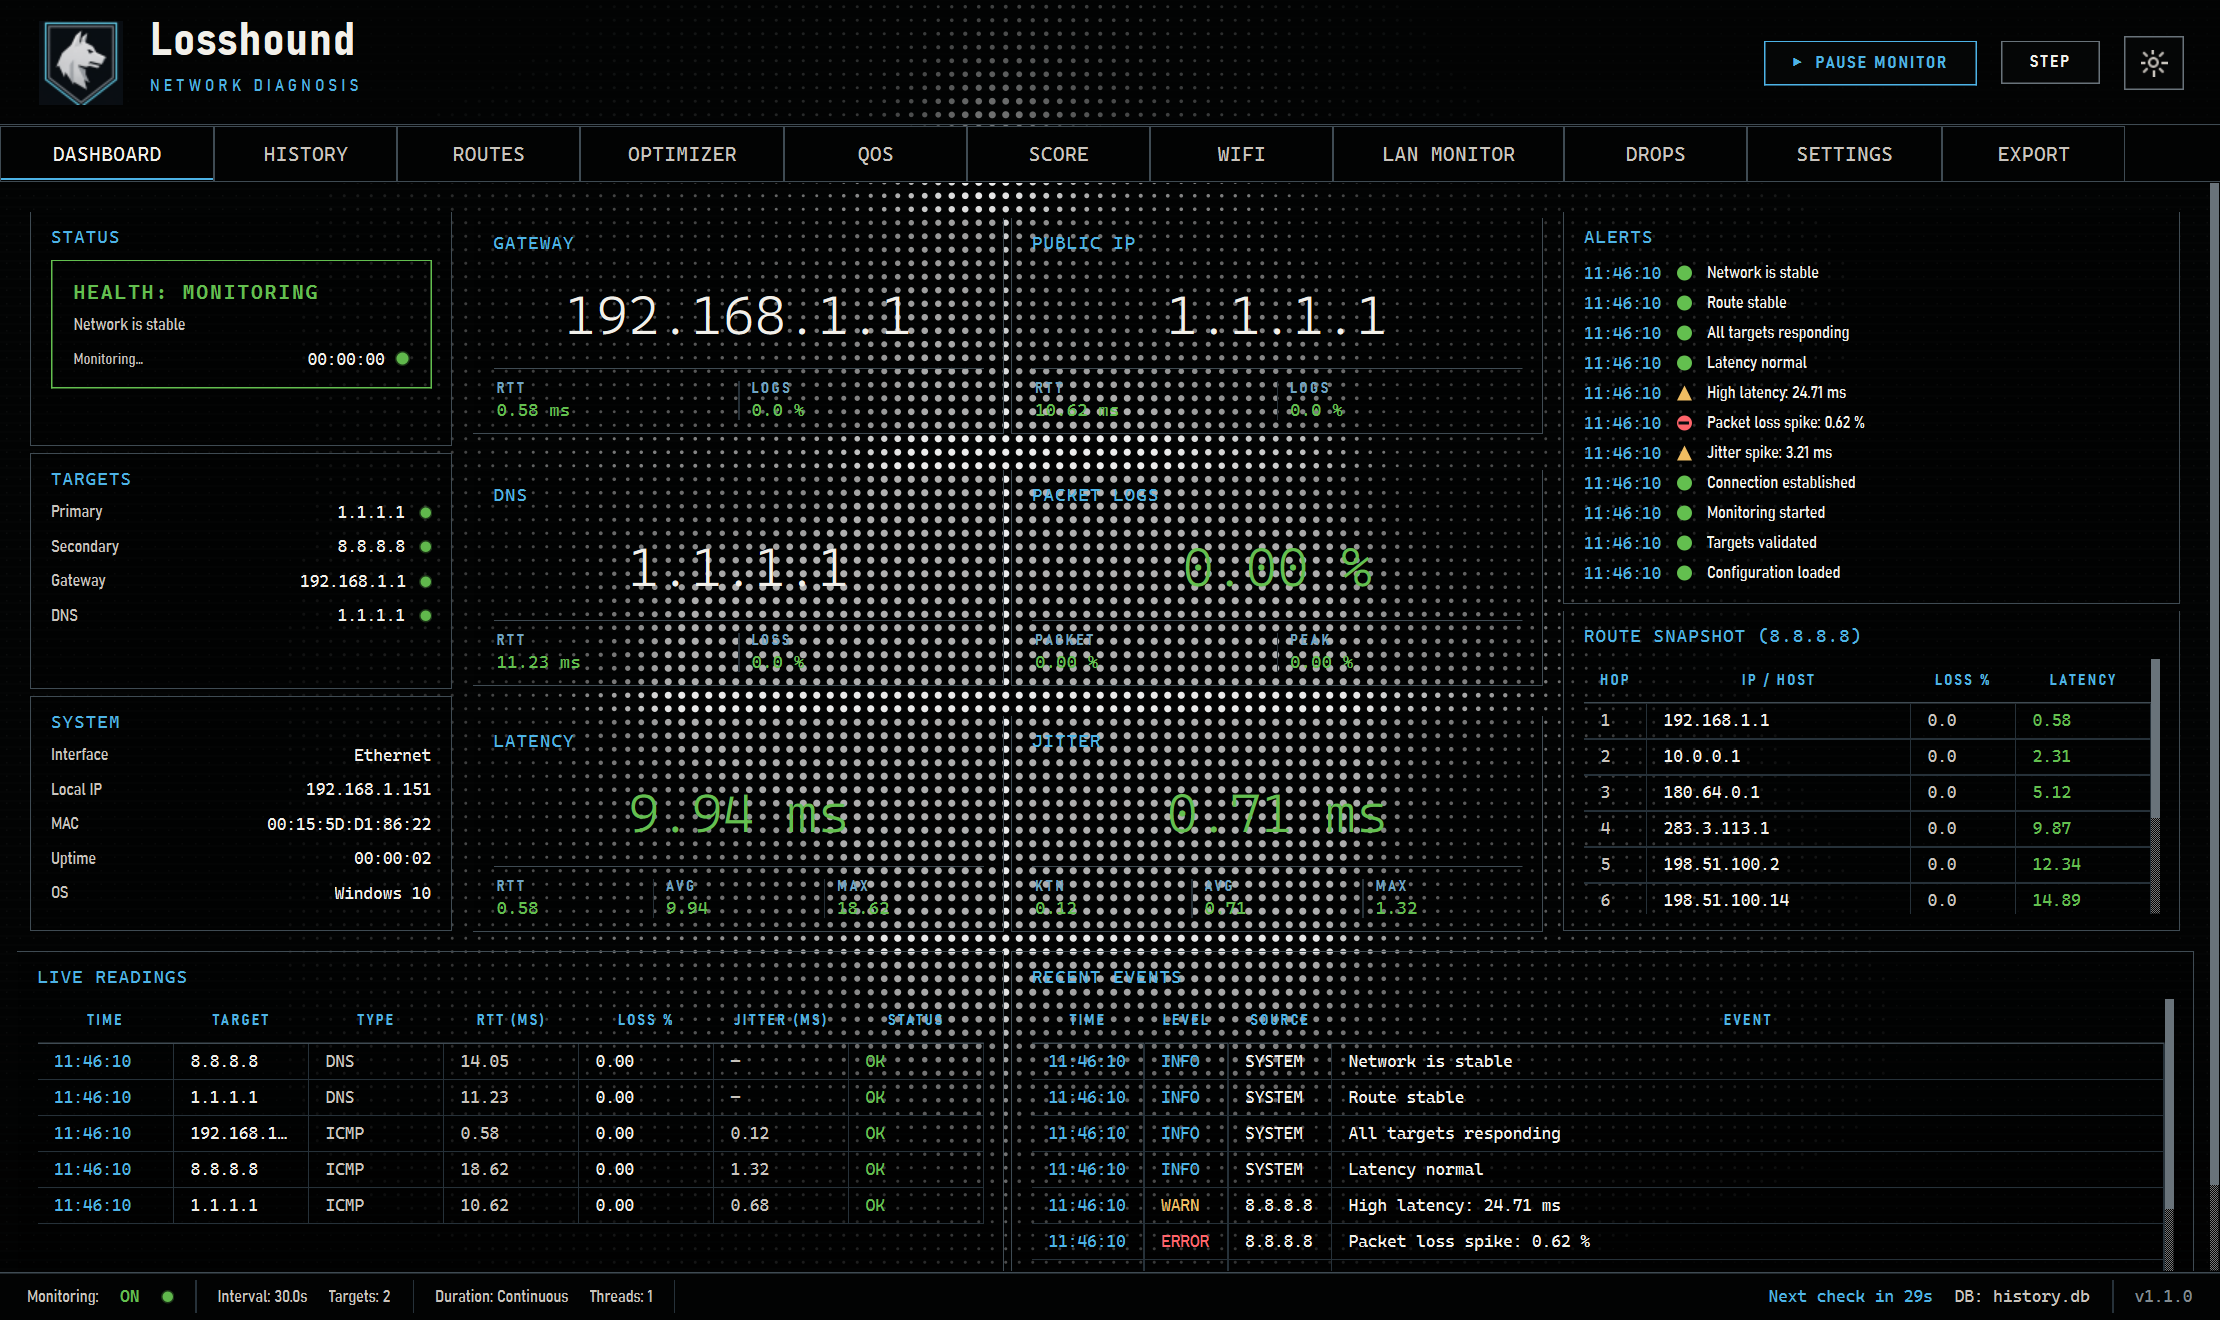
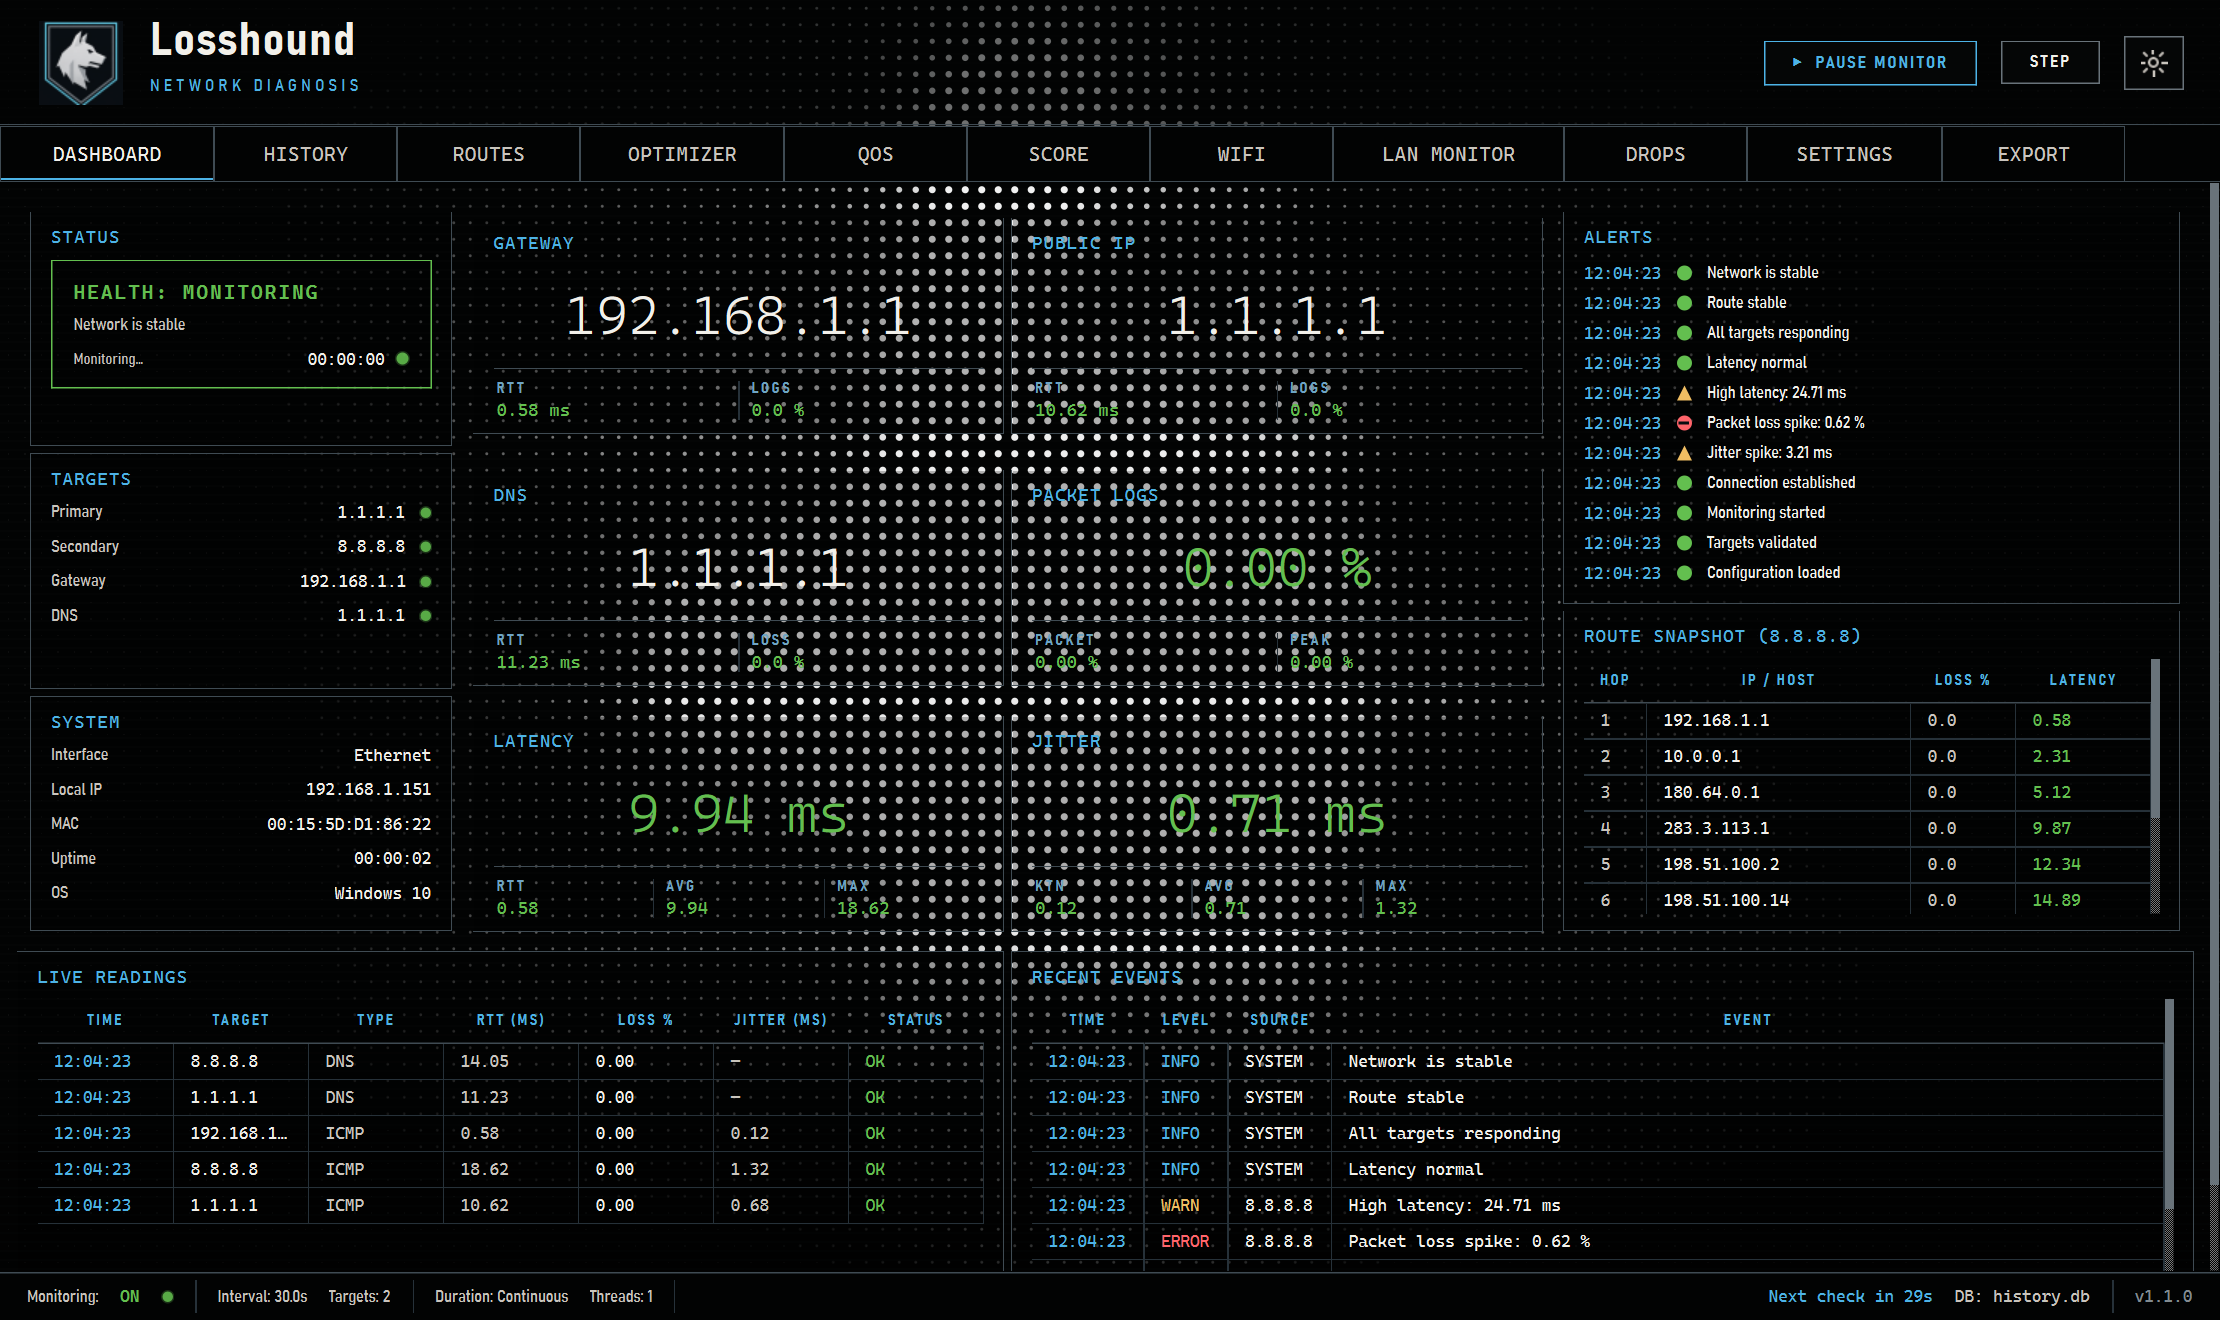
Optimize unified halftone backdrop performance and add organic mouse hover decay

diff --git a/src/losshound/gui/painted.py b/src/losshound/gui/painted.py
@@ -75,11 +75,24 @@ class TexturedSurface(QWidget):
         self.setMouseTracking(True)
 
         self._start_time = time.time()
-        self._mouse_x = 0
-        self._mouse_y = 0
-        self._mouse_target_x = 0
-        self._mouse_target_y = 0
+        self._mouse_x = 0.0
+        self._mouse_y = 0.0
+        self._mouse_target_x = 0.0
+        self._mouse_target_y = 0.0
         self._mouse_hover = False
+        self._mouse_glow_factor = 0.0
+        self._mouse_last_move_time = time.time()
+        self._last_mouse_x = 0.0
+        self._last_mouse_y = 0.0
+
+        # Optimization & caching fields
+        self._base_grid_pixmap = None
+        self._X = None
+        self._Y = None
+        self._DX = None
+        self._DY = None
+        self._D = None
+        self._has_numpy = False
 
         # 30 FPS update timer
         self._timer = QTimer(self)
@@ -87,12 +100,74 @@ class TexturedSurface(QWidget):
         self._timer.timeout.connect(self.update_animation)
         self._timer.start()
 
+    def resizeEvent(self, event) -> None:
+        super().resizeEvent(event)
+        self._recreate_grid()
+
+    def _recreate_grid(self) -> None:
+        rect = self.rect()
+        w = rect.width()
+        h = rect.height()
+        if w < 10 or h < 10:
+            self._base_grid_pixmap = None
+            self._X = None
+            self._Y = None
+            self._DX = None
+            self._DY = None
+            self._D = None
+            return
+
+        # Halftone grid parameters
+        cell = 11  # Coarser spacing (from 9) for tactile aesthetic and lower draw count
+
+        try:
+            import numpy as np
+            xs = np.arange(cell / 2.0, w, cell)
+            ys = np.arange(cell / 2.0, h, cell)
+            self._X, self._Y = np.meshgrid(xs, ys)
+
+            centerX = w / 2.0
+            centerY = h / 2.0
+            self._DX = self._X - centerX
+            self._DY = self._Y - centerY
+            self._D = np.sqrt(self._DX*self._DX + self._DY*self._DY)
+            self._has_numpy = True
+        except Exception:
+            self._has_numpy = False
+            self._X = None
+            self._Y = None
+
+        # Pre-render static base dot grid to a QPixmap
+        self._base_grid_pixmap = QPixmap(w, h)
+        self._base_grid_pixmap.fill(Qt.GlobalColor.transparent)
+
+        painter = QPainter(self._base_grid_pixmap)
+        painter.setRenderHint(QPainter.RenderHint.Antialiasing, False)
+        painter.setPen(Qt.PenStyle.NoPen)
+        # 228, 234, 244, 12 is the exact transparent base color used in the design
+        painter.setBrush(QColor(228, 234, 244, 12))
+
+        if self._has_numpy:
+            flat_x = self._X.ravel()
+            flat_y = self._Y.ravel()
+            for idx in range(len(flat_x)):
+                px = flat_x[idx]
+                py = flat_y[idx]
+                painter.drawRect(QRectF(px - 0.5, py - 0.5, 1.0, 1.0))
+        else:
+            fallback_cell = 14
+            for px in range(int(fallback_cell / 2), w, fallback_cell):
+                for py in range(int(fallback_cell / 2), h, fallback_cell):
+                    painter.drawRect(QRectF(px - 0.5, py - 0.5, 1.0, 1.0))
+
+        painter.end()
+
     def update_animation(self) -> None:
         # Resolve cursor position relative to this widget, ignoring child intercepts
         local_pos = self.mapFromGlobal(QCursor.pos())
         w = self.width()
         h = self.height()
-        
+
         if self.rect().contains(local_pos):
             self._mouse_hover = True
             self._mouse_x = local_pos.x()
@@ -100,15 +175,42 @@ class TexturedSurface(QWidget):
         else:
             self._mouse_hover = False
 
-        # Soft mouse interpolation
+        # Check if mouse moved
+        moved = False
+        if self._mouse_hover:
+            dx = self._mouse_x - self._last_mouse_x
+            dy = self._mouse_y - self._last_mouse_y
+            if math.sqrt(dx*dx + dy*dy) > 0.5:
+                moved = True
+            self._last_mouse_x = self._mouse_x
+            self._last_mouse_y = self._mouse_y
+
+        if moved:
+            self._mouse_last_move_time = time.time()
+
+        # Soft mouse interpolation and glow calculations
         if self._mouse_hover:
             self._mouse_target_x += (self._mouse_x - self._mouse_target_x) * 0.15
             self._mouse_target_y += (self._mouse_y - self._mouse_target_y) * 0.15
+
+            # Calculate target glow based on movement recency
+            time_since_move = time.time() - self._mouse_last_move_time
+            if time_since_move < 1.0:
+                target_glow = 1.0
+            else:
+                # Decay to a low idle glow (e.g., 0.15) over 1.5 seconds
+                target_glow = max(0.15, 1.0 - (time_since_move - 1.0) / 1.5)
+
+            # Ease towards target glow
+            self._mouse_glow_factor += (target_glow - self._mouse_glow_factor) * 0.1
         else:
             # Gentle floating idle movement
             t = (time.time() - self._start_time) * 0.8
             self._mouse_target_x = w / 2.0 + math.cos(t * 0.8) * (w / 3.0)
             self._mouse_target_y = h / 2.0 + math.sin(t * 0.5) * (h / 4.0)
+
+            # Fade out mouse glow when not hovering
+            self._mouse_glow_factor += (0.0 - self._mouse_glow_factor) * 0.08
 
         self.update()
 
@@ -123,112 +225,101 @@ class TexturedSurface(QWidget):
         if w < 10 or h < 10:
             return
 
+        # 1. Draw the pre-rendered static background grid pixmap
+        if self._base_grid_pixmap and not self._base_grid_pixmap.isNull():
+            painter.drawPixmap(0, 0, self._base_grid_pixmap)
+
         max_dim = max(w, h)
         centerX = w / 2.0
         centerY = h / 2.0
         t_val = (time.time() - self._start_time) * 0.8
 
-        # Halftone grid parameters
-        cell = 9
         dot_size = 2.4
 
-        try:
-            import numpy as np
-            # Vectorized coordinate computation for maximum performance
-            xs = np.arange(cell / 2.0, w, cell)
-            ys = np.arange(cell / 2.0, h, cell)
-            X, Y = np.meshgrid(xs, ys)
+        if self._has_numpy and self._X is not None:
+            try:
+                import numpy as np
 
-            DX = X - centerX
-            DY = Y - centerY
-            D = np.sqrt(DX*DX + DY*DY)
+                # Central nucleus glow
+                nucleus_radius = max_dim * 0.08
+                N_GLOW = np.exp(-self._D / nucleus_radius) * 0.95
 
-            # Central nucleus glow
-            nucleus_radius = max_dim * 0.08
-            N_GLOW = np.exp(-D / nucleus_radius) * 0.95
+                # Orbital loops (3 distinct angled ellipses)
+                ORBIT_PROXIMITY = np.zeros_like(self._D)
+                ELECTRON_PROXIMITY = np.zeros_like(self._D)
 
-            # Orbital loops (3 distinct angled ellipses)
-            ORBIT_PROXIMITY = np.zeros_like(D)
-            ELECTRON_PROXIMITY = np.zeros_like(D)
+                majorAxis = max_dim * 0.28
+                minorAxis = max_dim * 0.095
 
-            majorAxis = max_dim * 0.28
-            minorAxis = max_dim * 0.095
+                orbits = [
+                    {"angle": math.pi / 6.0, "speedMult": 1.2, "index": 0},
+                    {"angle": -math.pi / 6.0, "speedMult": 0.95, "index": 1},
+                    {"angle": math.pi / 2.0, "speedMult": 1.5, "index": 2}
+                ]
 
-            orbits = [
-                {"angle": math.pi / 6.0, "speedMult": 1.2, "index": 0},
-                {"angle": -math.pi / 6.0, "speedMult": 0.95, "index": 1},
-                {"angle": math.pi / 2.0, "speedMult": 1.5, "index": 2}
-            ]
+                for orbit in orbits:
+                    cosA = math.cos(orbit["angle"])
+                    sinA = math.sin(orbit["angle"])
 
-            for orbit in orbits:
-                cosA = math.cos(orbit["angle"])
-                sinA = math.sin(orbit["angle"])
+                    RX = self._DX * cosA + self._DY * sinA
+                    RY = -self._DX * sinA + self._DY * cosA
 
-                RX = DX * cosA + DY * sinA
-                RY = -DX * sinA + DY * cosA
+                    radialFactor = np.sqrt((RX/majorAxis)**2 + (RY/minorAxis)**2)
+                    proximity = np.exp(-((radialFactor - 1.0)**2) / (0.12 + math.sin(t_val + orbit["index"]) * 0.04))
 
-                radialFactor = np.sqrt((RX/majorAxis)**2 + (RY/minorAxis)**2)
-                proximity = np.exp(-((radialFactor - 1.0)**2) / (0.12 + math.sin(t_val + orbit["index"]) * 0.04))
+                    # Electron trace
+                    orbitTime = t_val * orbit["speedMult"]
+                    eX = math.cos(orbitTime) * majorAxis
+                    eY = math.sin(orbitTime) * minorAxis
 
-                # Electron trace
-                orbitTime = t_val * orbit["speedMult"]
-                eX = math.cos(orbitTime) * majorAxis
-                eY = math.sin(orbitTime) * minorAxis
+                    electronPx = eX * cosA - eY * sinA + centerX
+                    electronPy = eX * sinA + eY * cosA + centerY
 
-                electronPx = eX * cosA - eY * sinA + centerX
-                electronPy = eX * sinA + eY * cosA + centerY
+                    EDx = self._X - electronPx
+                    EDy = self._Y - electronPy
+                    distToElectron = np.sqrt(EDx*EDx + EDy*EDy)
+                    electronHalo = np.exp(-distToElectron / (max_dim * 0.075)) * 0.7
 
-                EDx = X - electronPx
-                EDy = Y - electronPy
-                distToElectron = np.sqrt(EDx*EDx + EDy*EDy)
-                electronHalo = np.exp(-distToElectron / (max_dim * 0.075)) * 0.7
+                    ORBIT_PROXIMITY += proximity * 0.15
+                    ELECTRON_PROXIMITY += electronHalo
 
-                ORBIT_PROXIMITY += proximity * 0.15
-                ELECTRON_PROXIMITY += electronHalo
+                # Mouse gravity trail
+                mDx = self._X - self._mouse_target_x
+                mDy = self._Y - self._mouse_target_y
+                distToMouse = np.sqrt(mDx*mDx + mDy*mDy)
+                mouseGlow = np.exp(-distToMouse / (max_dim * 0.18)) * (0.28 * self._mouse_glow_factor)
 
-            # Mouse gravity trail
-            mDx = X - self._mouse_target_x
-            mDy = Y - self._mouse_target_y
-            distToMouse = np.sqrt(mDx*mDx + mDy*mDy)
-            mouseGlow = np.exp(-distToMouse / (max_dim * 0.18)) * 0.28
+                # Calculate individual contributions to guide colors
+                blue_weight = N_GLOW * 1.1 + ORBIT_PROXIMITY
+                green_weight = ELECTRON_PROXIMITY
+                mouse_weight = mouseGlow
 
-            # Calculate individual contributions to guide colors
-            blue_weight = N_GLOW * 1.1 + ORBIT_PROXIMITY
-            green_weight = ELECTRON_PROXIMITY
-            mouse_weight = mouseGlow
+                STRENGTH = blue_weight + green_weight + mouse_weight
+                STRENGTH = (STRENGTH - 0.5) * 1.35 + 0.5 * 1.1
+                INTENSITY = np.clip(STRENGTH, 0.0, 1.0)
 
-            STRENGTH = blue_weight + green_weight + mouse_weight
-            STRENGTH = (STRENGTH - 0.5) * 1.35 + 0.5 * 1.1
-            INTENSITY = np.clip(STRENGTH, 0.0, 1.0)
+                # Vectorized active dot filtering: only loop over dots with intensity > 0.005
+                active_indices = np.where(INTENSITY > 0.005)
+                active_x = self._X[active_indices]
+                active_y = self._Y[active_indices]
+                active_intensity = INTENSITY[active_indices]
 
-            # Flatten coordinates and weights for iteration
-            flat_x = X.ravel()
-            flat_y = Y.ravel()
-            flat_intensity = INTENSITY.ravel()
-            flat_blue = blue_weight.ravel()
-            flat_green = green_weight.ravel()
-            flat_mouse = mouse_weight.ravel()
+                painter.setPen(Qt.PenStyle.NoPen)
+                for idx in range(len(active_intensity)):
+                    intensity = active_intensity[idx]
+                    px = active_x[idx]
+                    py = active_y[idx]
 
-            for idx in range(len(flat_x)):
-                intensity = flat_intensity[idx]
-                px = flat_x[idx]
-                py = flat_y[idx]
-
-                if intensity <= 0.005:
-                    # Render standard base dot pattern
-                    painter.setPen(Qt.PenStyle.NoPen)
-                    painter.setBrush(QColor(228, 234, 244, 12))
-                    painter.drawRect(QRectF(px - 0.5, py - 0.5, 1.0, 1.0))
-                else:
                     # Clean monochrome black & white halftone style (white dots with varying alpha)
                     alpha = int(18 + 225 * intensity)
-                    painter.setPen(Qt.PenStyle.NoPen)
                     painter.setBrush(QColor(255, 255, 255, alpha))
 
                     radius = max(1.0, intensity * dot_size)
                     painter.drawEllipse(QPointF(px, py), radius, radius)
 
-        except Exception:
+            except Exception:
+                pass  # Fallback will handle it
+        else:
             # Safe non-numpy fallback with a larger cell size to protect framerate
             fallback_cell = 14
             for px in range(int(fallback_cell / 2), w, fallback_cell):
@@ -248,17 +339,13 @@ class TexturedSurface(QWidget):
                     mDx = px - self._mouse_target_x
                     mDy = py - self._mouse_target_y
                     distToMouse = math.sqrt(mDx*mDx + mDy*mDy)
-                    mouseGlow = math.exp(-distToMouse / (max_dim * 0.18)) * 0.28
+                    mouseGlow = math.exp(-distToMouse / (max_dim * 0.18)) * (0.28 * self._mouse_glow_factor)
 
                     strength = nGlow * 1.1 + proximity * 0.15 * 0.58 + mouseGlow
                     strength = (strength - 0.5) * 1.35 + 0.5 * 1.1
                     intensity = max(0.0, min(1.0, strength))
 
-                    if intensity <= 0.01:
-                        painter.setPen(Qt.PenStyle.NoPen)
-                        painter.setBrush(QColor(228, 234, 244, 12))
-                        painter.drawRect(QRectF(px - 0.5, py - 0.5, 1.0, 1.0))
-                    else:
+                    if intensity > 0.01:
                         alpha = int(18 + 225 * intensity)
                         painter.setPen(Qt.PenStyle.NoPen)
                         painter.setBrush(QColor(255, 255, 255, alpha))